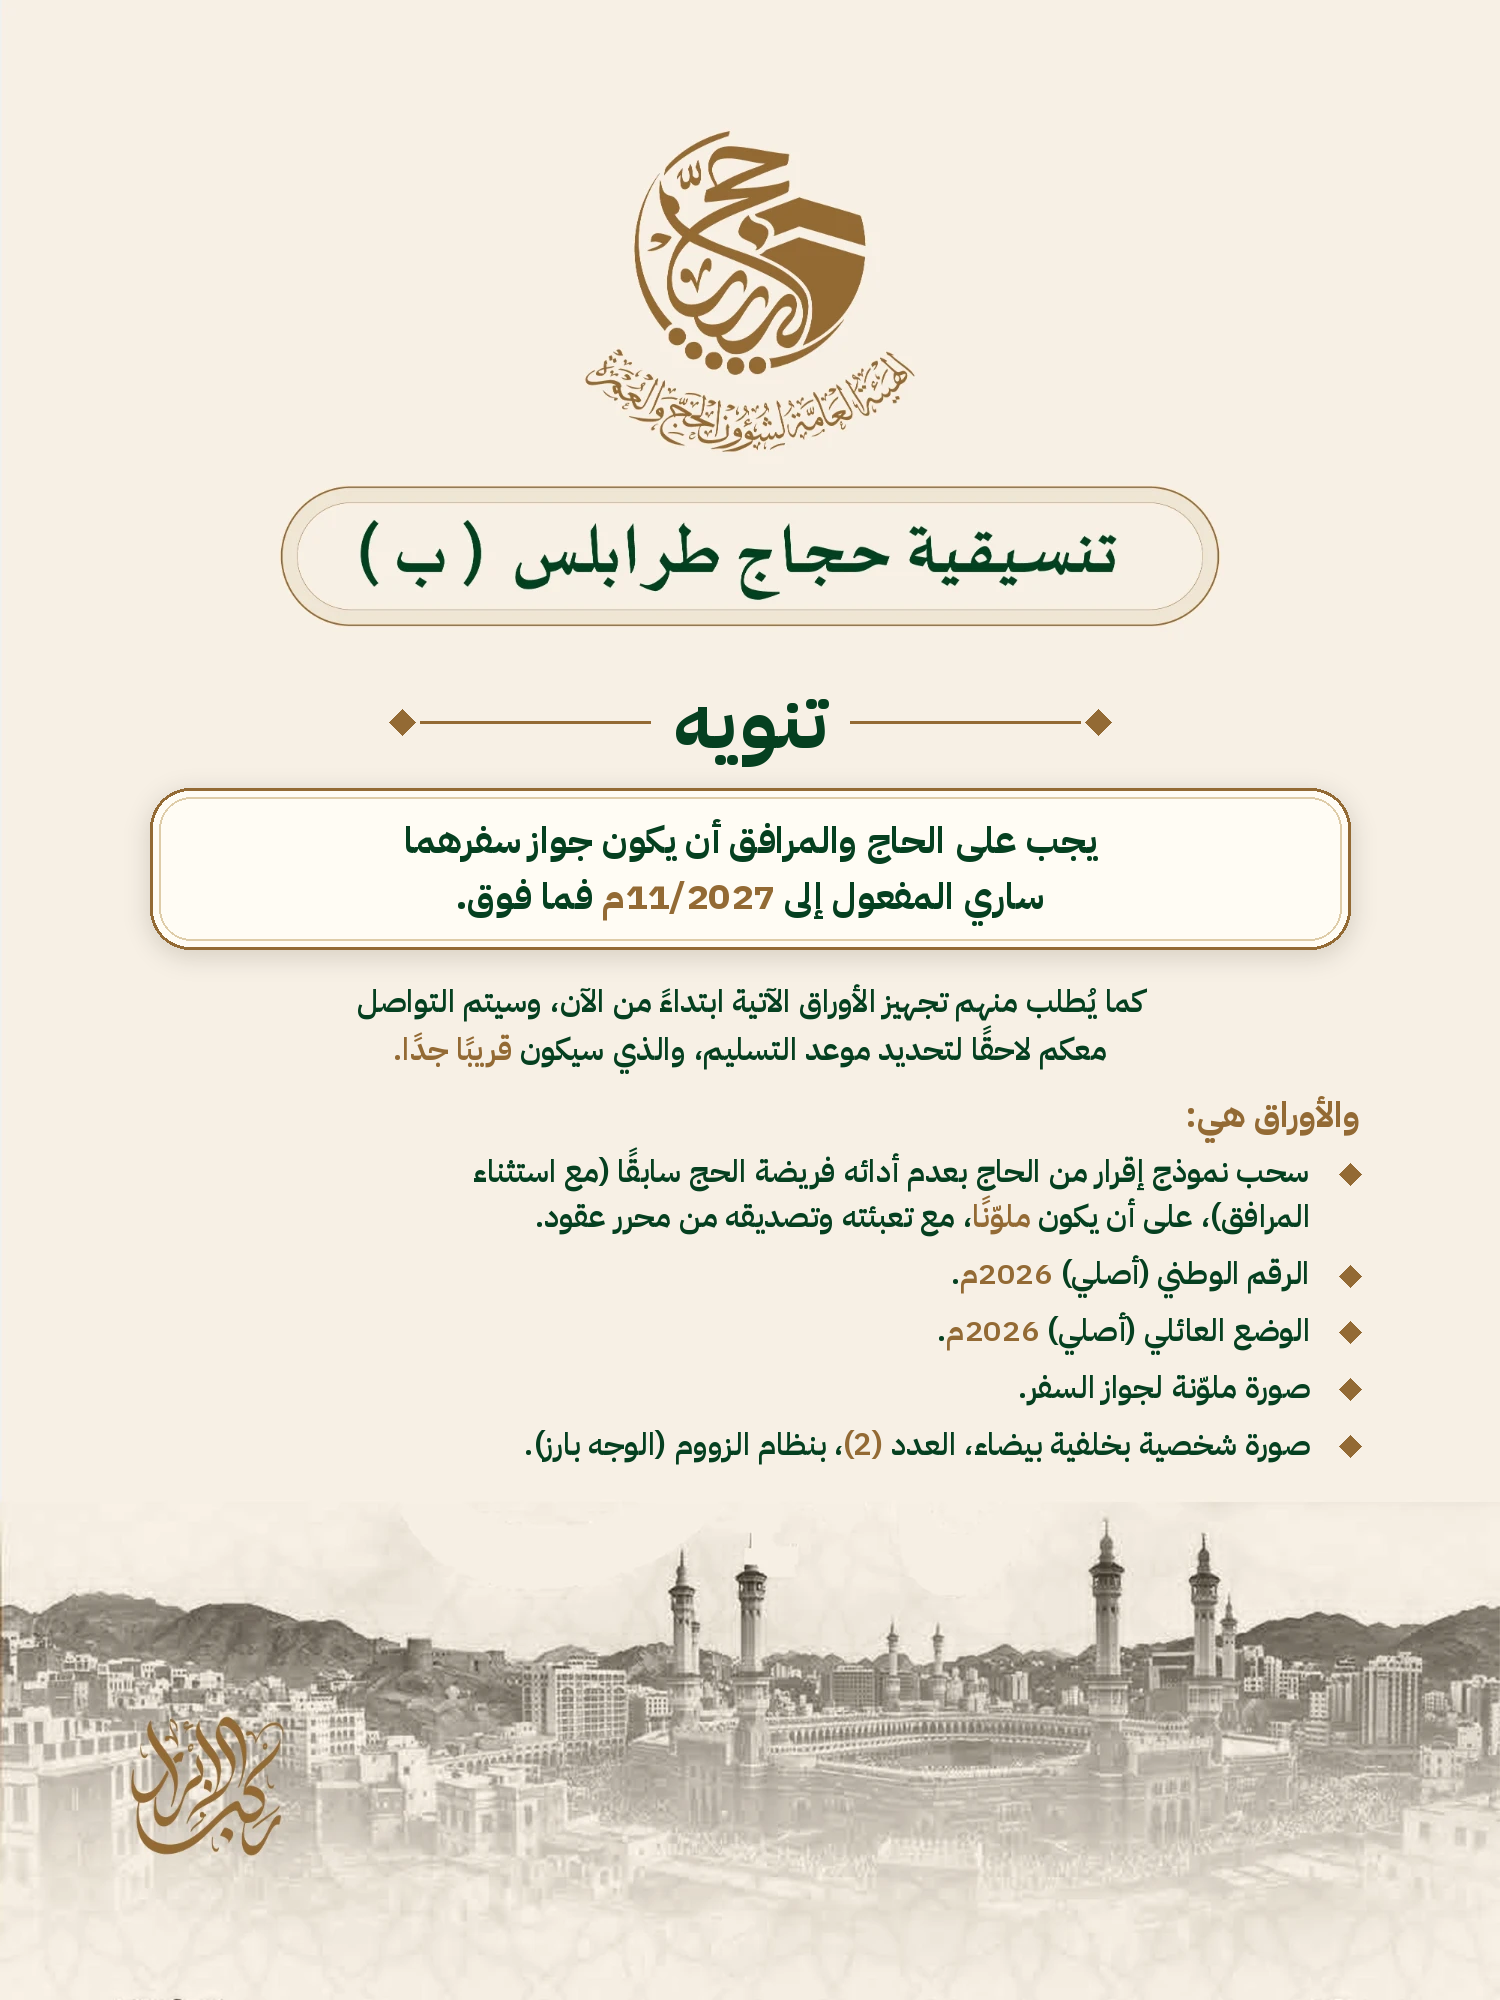
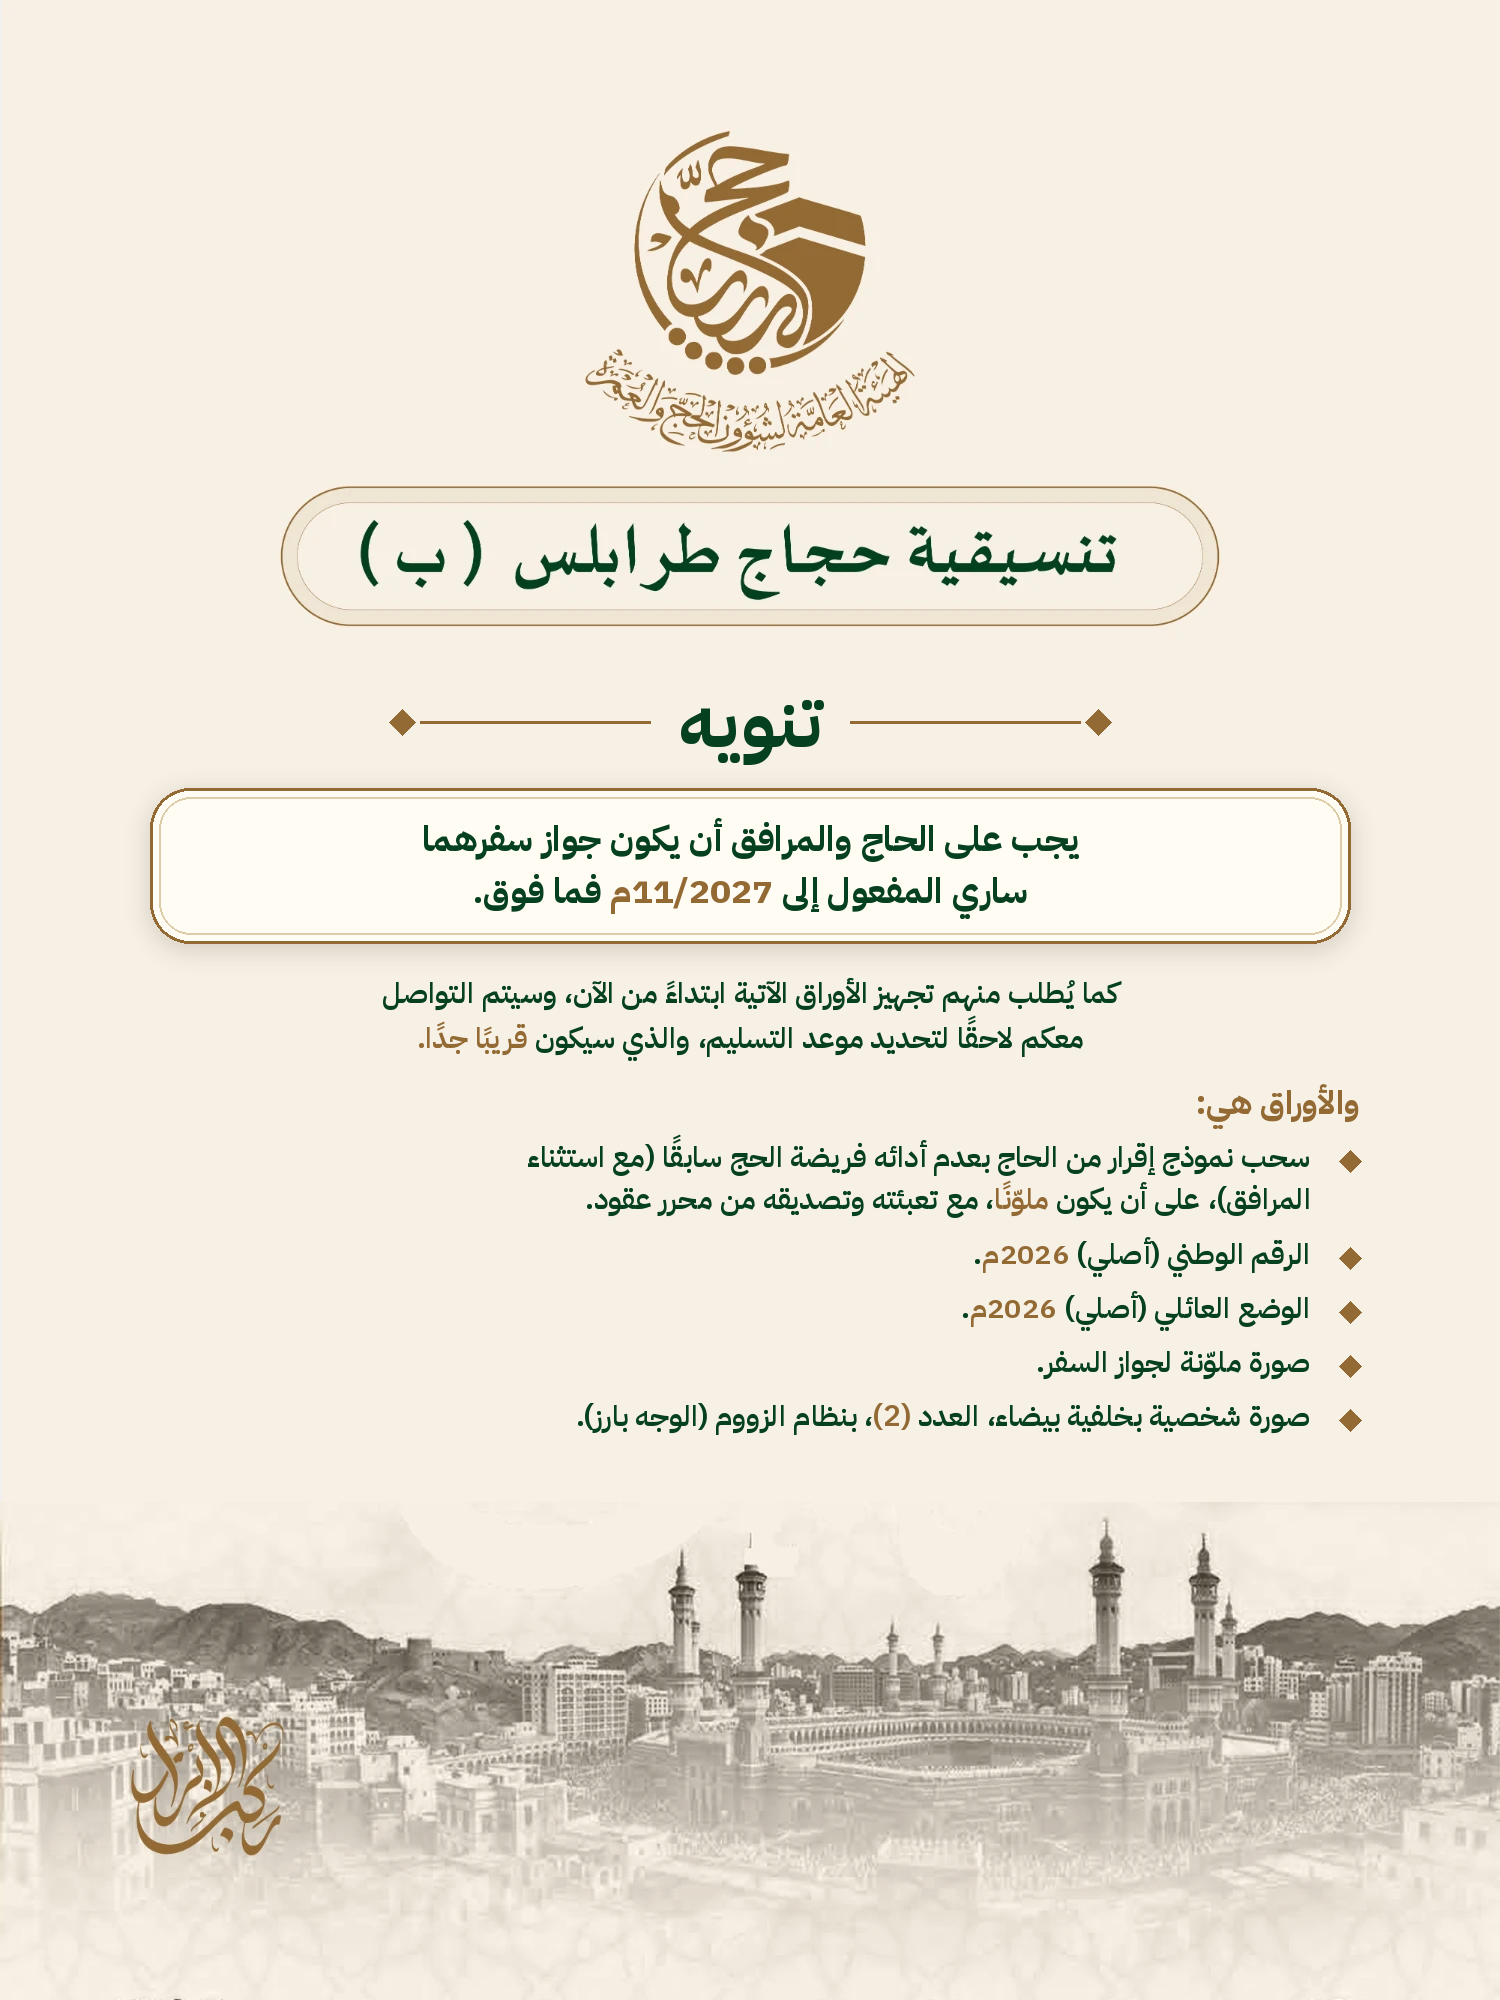
Notice: keep content clear of the skyline
Claude-Session: https://claude.ai/code/session_0191y2EXY5dUDpfBFmNJAMrU

Changed region(s): [[0.1227, 0.403, 0.92, 0.744], [0.5213, 0.341, 0.552, 0.372], [0.46, 0.341, 0.4907, 0.372]]

diff --git a/identity_pack/make_notice.py b/identity_pack/make_notice.py
@@ -8,7 +8,7 @@ from pack_lib import *
 TPL = "mapdata/template_notice.webp"
 W, H = 1500, 2000
 GREEN_T, BRONZE_T = (5, 64, 32), (147, 106, 52)
-AREA = (110, 668, W - 110, 1480)               # safe area inside the empty region
+AREA = (110, 668, W - 110, 1462)               # safe area inside the empty region
 
 HEAD = "تنويه"
 PASS = "يجب على الحاج والمرافق أن يكون جواز سفرهما ساري المفعول إلى *11/2027م* فما فوق."
